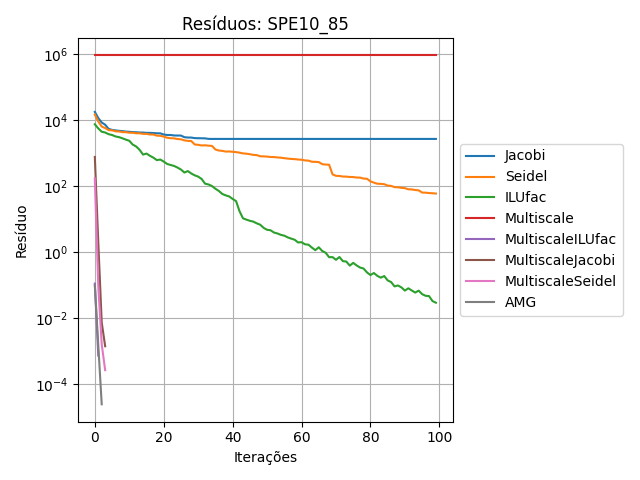
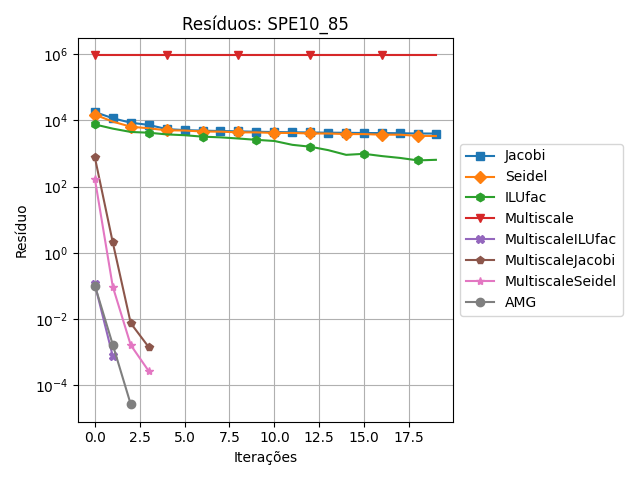
Little Update

diff --git a/Espectro/teste_ESPECTRO.py b/Espectro/teste_ESPECTRO.py
@@ -11,6 +11,7 @@ problems = ['Esdras', 'Barreira', 'Barreira_f', 'SPE10_0', 'SPE10_0_true', 'SPE1
 methods = {'spectre': ['Jacobi', 'Seidel', 'ILUfac', 'Multiscale', 'MultiscaleILUfac', 'MultiscaleJacobi', 'MultiscaleSeidel'],
            'solve': ['Jacobi', 'Seidel', 'ILUfac', 'Multiscale', 'MultiscaleILUfac', 'MultiscaleJacobi', 'MultiscaleSeidel', 'AMG']
            }
+iterations = [100, 100, 100, 20, 20, 20, 20, 20, 20, 20, 20]
 
 
 for problem in problems:
@@ -31,7 +32,6 @@ for problem in problems:
             print('', end='')
 
     A, OP, OR, b = load_problem(problem)
-
     print(f'{problem}: {A.shape[0]}')
     sa = MatrixSpectralAnalysisSolve(A, OP, OR, b)
 
@@ -71,7 +71,7 @@ for problem in problems:
         for method in methods[operation]:
             print(method)
             try:
-                res[method], x, time, info = sa.Solve(method, maxiter=100)
+                res[method], x, time, info = sa.Solve(method, maxiter=iterations[problems.index(problem)])
             except Exception as error:
                 print(f'{method} não pôde ser resolvido devido a: {error}\n')
                 continue

diff --git a/Espectro/MatrixSpectralAnalysisSolve.py b/Espectro/MatrixSpectralAnalysisSolve.py
@@ -168,9 +168,13 @@ class MatrixSpectralAnalysisSolve:
         plt.title(f'Resíduos: {problem}')
         plt.yscale("log")
         plt.grid(True)
+        markers = ['s', 'D', 'h', 'v', 'X', 'p', '*', 'o']
+        every = [1, 2, 3, 4, 1, 2, 3, 4]
         for method in methods:
-            plt.plot(residues[method])
-        
+            if len(residues[method]) < 10:
+                every[methods.index(method)] = 1
+            plt.plot(residues[method], marker=markers[methods.index(method)], markevery=every[methods.index(method)], label=method)
+
         plt.legend(methods, loc='center left', bbox_to_anchor=(1.02, 0.5), borderaxespad=0.)
         plt.tight_layout()
 
